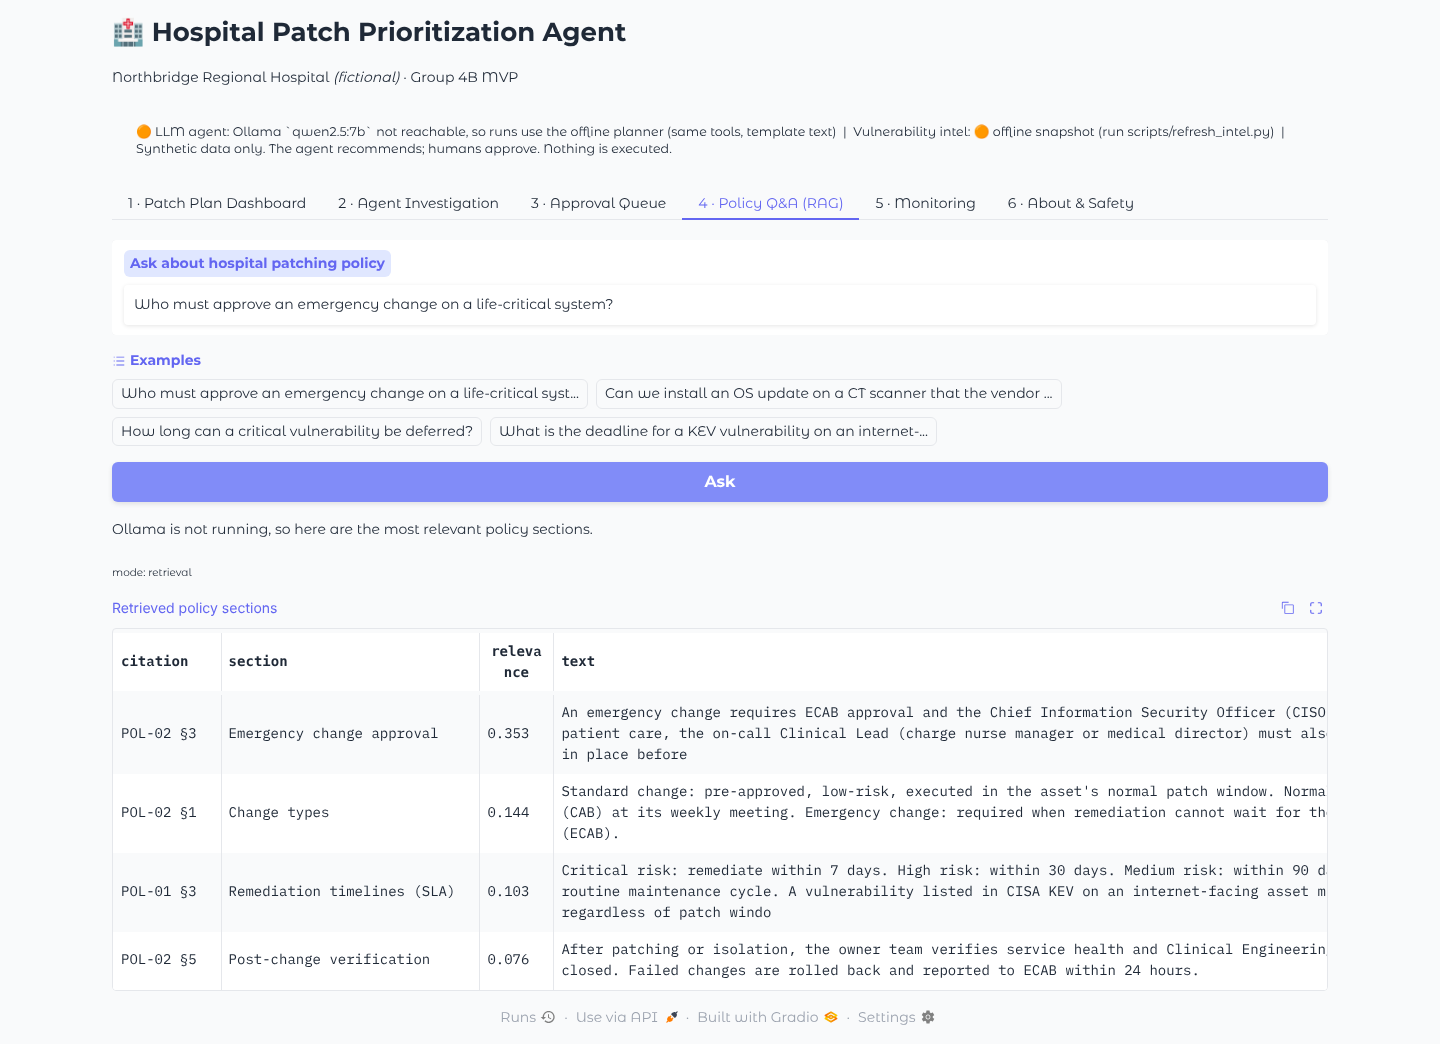
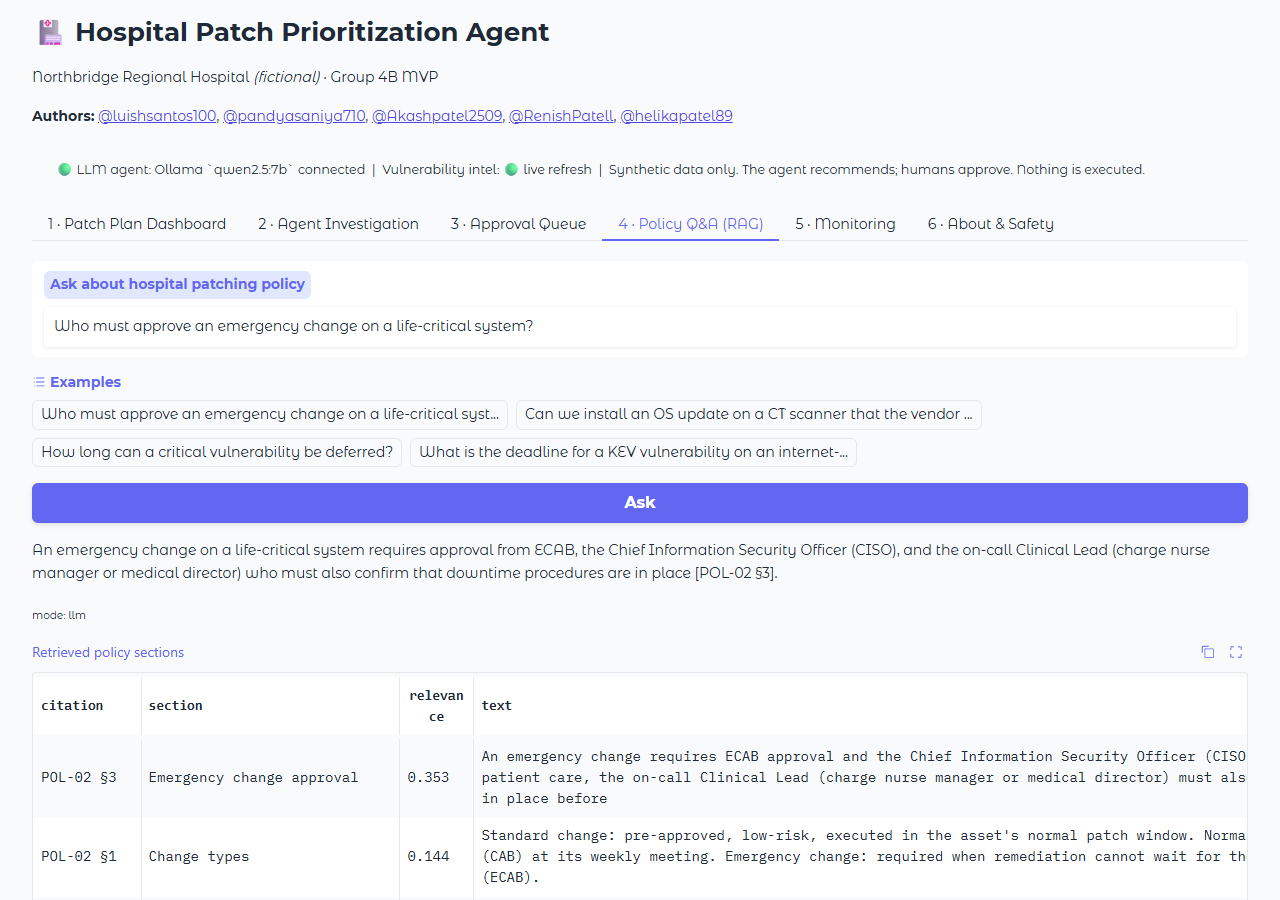
README: add limitations and screenshot gallery; refresh screenshots
Add a Limitations section, remove deleted documents from the repository map,
list the new files, correct ranking stability (Kendall tau 0.96) and describe
the approval quorum and two-control rules. Replace the October screenshots with
current ones from the merged app running qwen2.5:7b, and add the deferral
safeguard.

diff --git a/README.md b/README.md
@@ -9,7 +9,9 @@
 Hospitals can't patch everything right away. Rebooting an infusion-pump server or a CT console can delay patient care, and medical device vendors must validate patches before they can be installed. This MVP ranks every vulnerability in a **synthetic hospital** and recommends a safe action for each one:
 **PATCH · ISOLATE · MONITOR · DEFER-WITH-CONTROLS**. Every recommendation cites the hospital's policies and waits for a named human approver.
 
-![Agent investigation](docs/screenshots/2_agent_investigation.png)
+![Agent investigation: decision, evidence, approvers, framework mapping and tool trace](docs/screenshots/2_agent_investigation.png)
+
+*Real `qwen2.5:7b` output. The model's explanation text is not verified (see [Limitations](#limitations)).*
 
 ## What makes this an AI agent (not just a classifier)
 
@@ -67,8 +69,28 @@ python eval/run_eval.py --llm      # also evaluates the real Ollama agent
 | Guardrail red-team (5 adversarial LLM behaviours × 4) | 100% safe final output, 100% flagged |
 | CVSS-only top-25 that would be **unsafe to "just patch now"** | 14 of 25 |
 | Not-exploited items in top 25: CVSS-only vs ours | 4 vs 0 |
-| Ranking stability under ±20% weight changes | Kendall τ 0.97 |
+| Ranking stability under ±20% weight changes | Kendall τ 0.96 |
 | Policy RAG retrieval (12 questions) | hit@1 83%, hit@3 100% |
+
+## Screenshots
+
+**Patch plan dashboard:** every finding ranked, with filters and CSV export.
+
+![Patch plan dashboard](docs/screenshots/1_dashboard.png)
+
+**Approval quorum:** one of two required roles has signed, so the change stays pending.
+
+![Approval queue waiting for the second sign-off](docs/screenshots/3_approval_queue.png)
+
+**Deferral safeguard:** the final sign-off is refused until two compensating controls are recorded.
+
+![Deferral refused until controls are recorded](docs/screenshots/6_deferral_safeguard.png)
+
+**Policy Q&A (RAG)** and **monitoring:**
+
+![Policy question answered from retrieved sections](docs/screenshots/4_policy_rag.png)
+
+![Monitoring tab with run, latency and approval counts](docs/screenshots/5_monitoring.png)
 
 ## Repository map
 
@@ -81,15 +103,18 @@ app/
   rag.py           policy retrieval (TF-IDF default, optional embeddings)
   tools.py         the 4 agent tools + JSON schemas
   agent.py         Ollama tool-calling loop, guardrails, offline planner
+  plan.py          builds the ranked remediation plan
+  frameworks.py    MITRE ATT&CK and NIST CSF lookup (never written by the LLM)
   approvals.py     human-in-the-loop approval queue (SQLite, audit trail)
   monitoring.py    JSONL event log: runs, tool calls, latency, errors
   ui.py            Gradio app (6 tabs)
-data/              synthetic assets + findings, CVE intel snapshot
+data/              synthetic assets + findings, CVE intel, ATT&CK/CSF mapping
 policies/          6 synthetic hospital policies (the RAG corpus)
 scripts/           data generator, live intel refresh
 eval/              scenarios, RAG questions, fake LLMs, run_eval.py, rubric
 tests/             pytest suite
-docs/              WEEKLY_GUIDE, ARCHITECTURE, DATA_CARD, PROPOSAL, DEMO_SCRIPT, REPORT_TEMPLATE, screenshots
+docs/              ARCHITECTURE, CONTROL_MAPPING, DATA_CARD, PROPOSAL, screenshots
+CLAUDE.md          instructions and safety rules for the coding agent
 ```
 
 ## Acceptance checklist (from the SDLC guide)
@@ -105,7 +130,21 @@ docs/              WEEKLY_GUIDE, ARCHITECTURE, DATA_CARD, PROPOSAL, DEMO_SCRIPT,
 | Evaluated with documented test cases | `eval/scenarios.json`, `eval/results/eval_report.md` |
 | Reproducibly runnable | Quick start, Dockerfile, seeded generator |
 | GitHub has source, README, deps, architecture | this repo, `docs/ARCHITECTURE.md` |
-| Human approval before sensitive recommendations | Tab 3: role-checked approval queue |
+| Human approval before sensitive recommendations | Tab 3: every required role signs; deferrals also need two compensating controls |
+
+## Limitations
+
+- **Synthetic data.** Category templates make assets more regular than a real inventory, with one CVE per finding and only 30 distinct CVEs.
+- **Hand-chosen risk weights.** Sensitivity testing shows the ranking is stable, not that it is correct. No model is trained.
+- **Evaluation is not independent.** Scenario labels were written from the same policies as the policy engine, so 100% shows consistency, not accuracy.
+- **Explanation text is not verified.** Guardrails check decisions, approvals and citation IDs, not wording. In one review, 6 of 10 model explanations contained a factual or category error. Check them against the evidence and tool trace.
+- **Added deferral controls are declarations** by approvers. Nothing verifies that a control exists on a system.
+- **Model-chosen alternatives** add CISO review, but not the other approvers specific to that action.
+- **No authentication.** Approver identity is self-declared, and the app listens on the local network.
+- **No scheduling or ageing.** There is no maintenance-window scheduler, and detected dates do not affect deadlines.
+- **Framework mapping** of CVEs to ATT&CK techniques is the team's judgement. ATT&CK for ICS is not mapped.
+- **Intel changes daily.** NVD scores can also differ from the vendor's (Zerologon: 5.5 in NVD, 10.0 from Microsoft).
+- **Limited testing.** One model, 10 end-to-end findings, one machine. The Docker build has not been tested.
 
 ## Safety boundaries
 Synthetic data only. No scanning, no real systems, no malware. The agent **never** changes anything: it recommends, and humans approve. Approval only records the decision. The only external data is public vulnerability metadata (NVD, CISA KEV, FIRST EPSS). No API keys are stored in the code.
